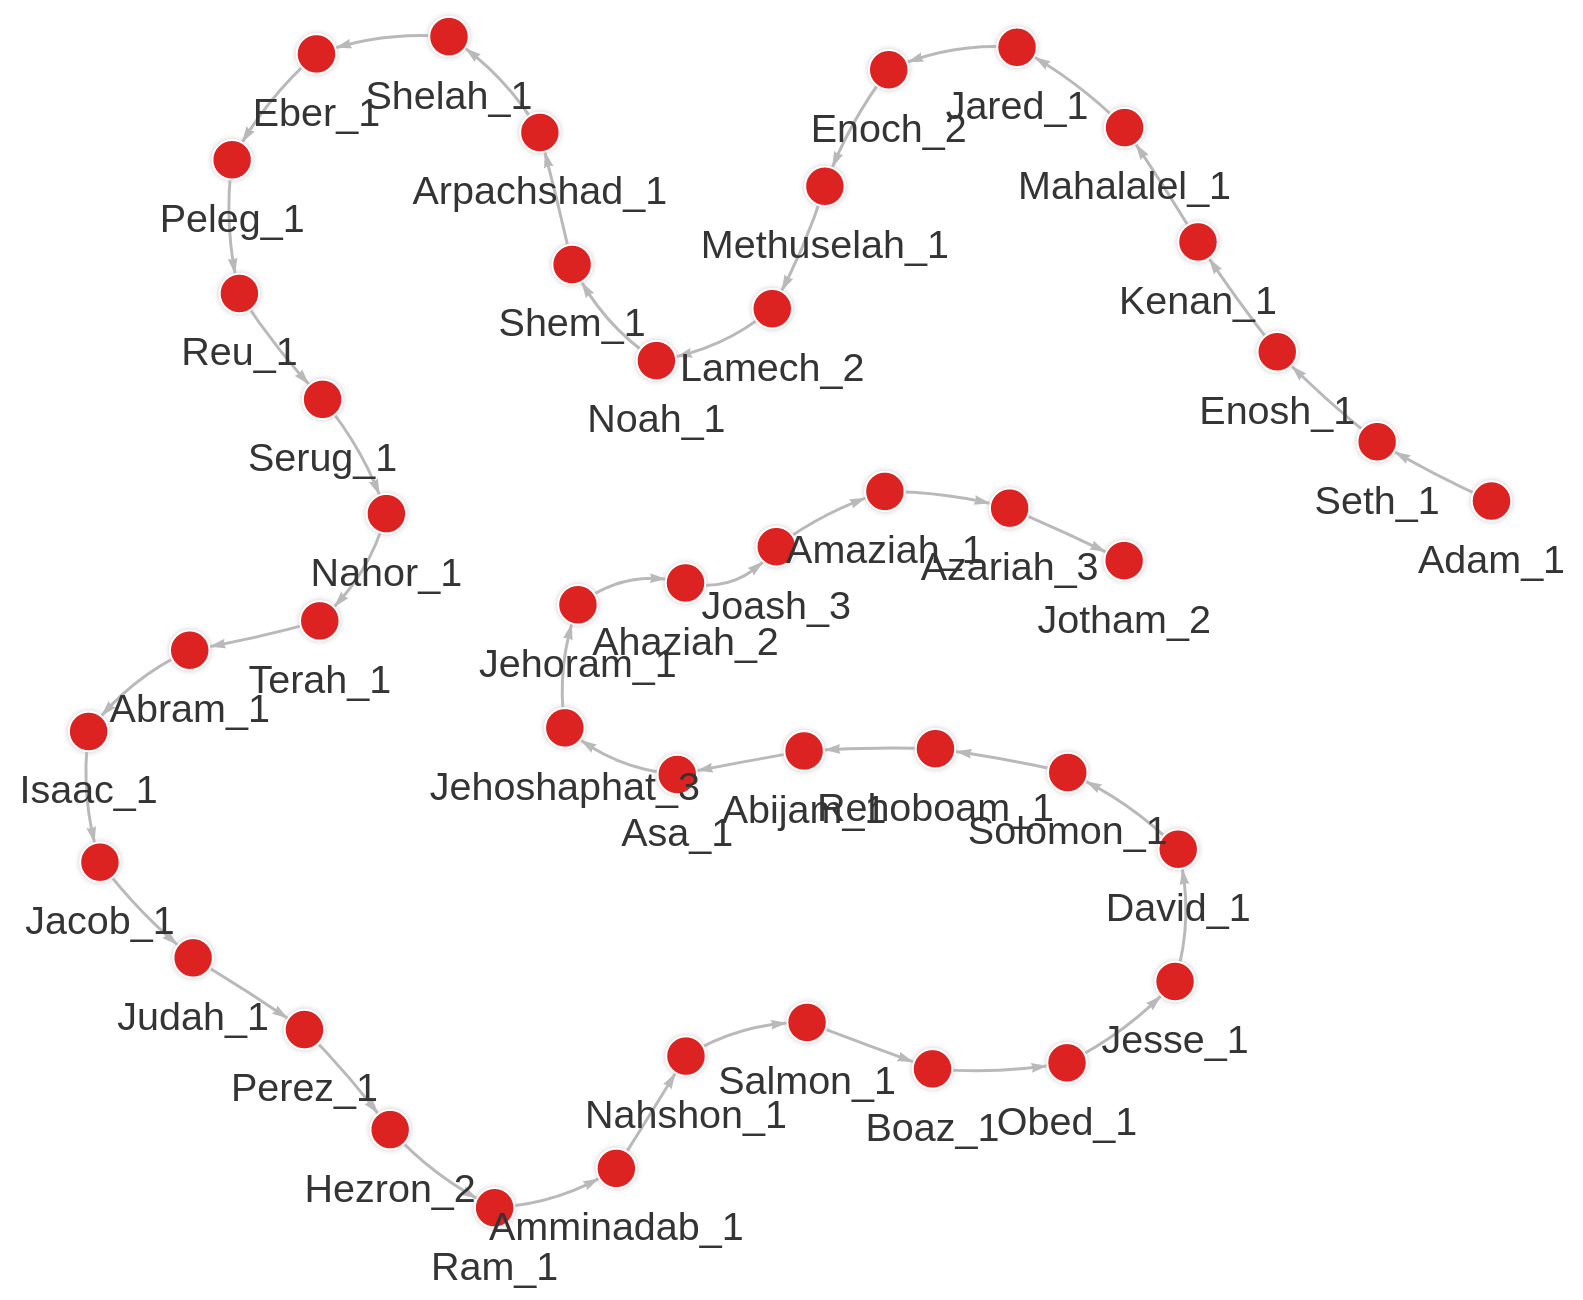
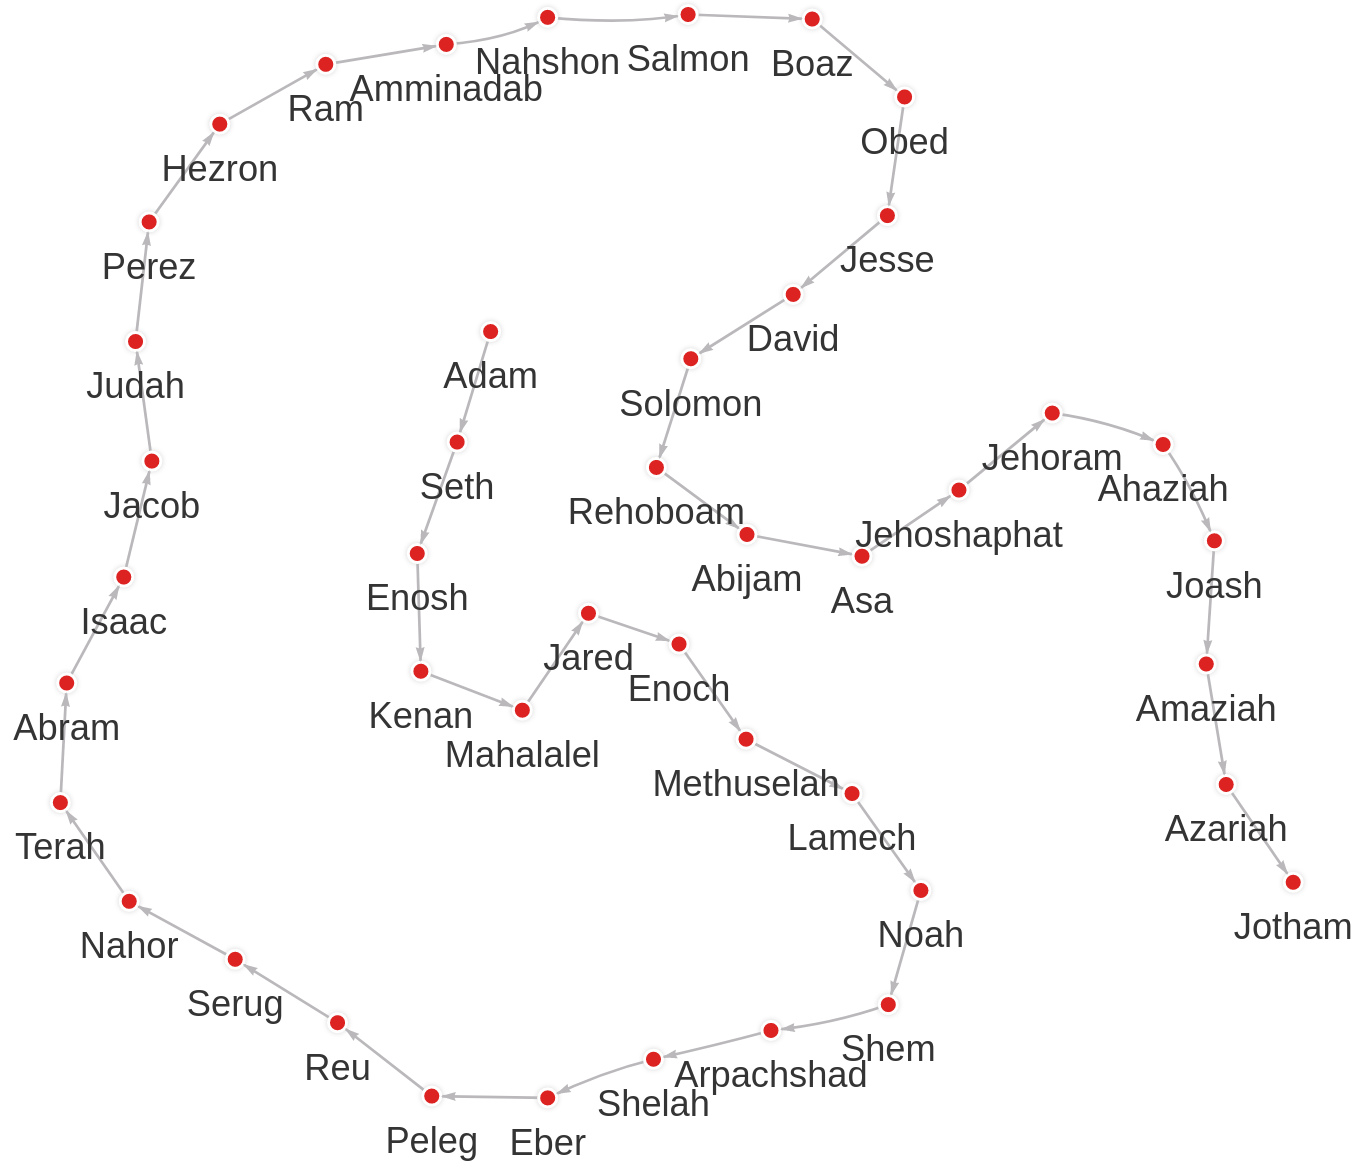
add more information to each question and improve image quality

diff --git a/README.md b/README.md
@@ -1,15 +1,25 @@
-# Exploring hebrew [bible relationships](https://data.world/bradys/bibledata-personrelationship) with [memgraph](https://memgraph.com)
+# Exploring the Hebrew [Bible relationships](https://data.world/bradys/bibledata-personrelationship) with [Memgraph](https://memgraph.com)
 
-Reading the bible I recall struggling to remember relationships between persons and where to find references to them in the bible.
+Reading the Bible I recall struggling to remember relationships between persons and where to find references to them in the Bible.
 That has kept me from being immersed in the story as I would often find myself guessing who is who to whom.
 Recently, I've discovered this gem of a dataset and wanted to explore it.
 Memgraph turned out to be a great fit for analysing the data.
 In the first part of this article we'll answer some commonly asked questions using a graph database.
-In the second part you can find the step by step process of how to explore your  own datasets; from idea to results.
+In the second part you can find the step by step process of how to explore your own datasets; from idea to results.
 
 ## Frequently asked questions
 
+Every question in this section will be followed by:
+  - a short description
+  - an image from [MemgraphLab](https://memgraph.com/download#Lab-download) (Memgraph's default data browser)
+  - a [cypher query](https://neo4j.com/developer/cypher/) (SQL-like declarative query language for graph databases)
+
 ### What is the longest father bloodline path from Adam?
+The image shows the longest father-line path from Adam (created by G-d) all the way to Jotham, the son of Azariah.
+We can see that our dataset is incomplete since the family tree of Uzziah, son of Amaziah, should be longer (all the way to Yeshua).
+The Amaziah -> Uzziah relationship is first noted in the second book of Chronicles 26:1, but the dataset is up to 2CH 20.
+This is one of the charms of dealing with live data.
+![](./img/longest-bloodline.png)
 ```cypher
 MATCH path = ({name: "Adam"})
     -[* {type: "father"} ]->
@@ -18,32 +28,27 @@ RETURN path
 ORDER BY size(path) DESC
 LIMIT 1
 ```
-![](./img/longest-bloodline.png)
 
-We can see that our dataset is incomplete as the bloodline ends with *Jotham*, even though he had a son.
-That is one of the charms of dealing with live data.
+### What is the family tree of Adam excluding Israel (Jacob)?
+The image shows Adams family tree up to Jacob, the son of Isaac, grandson of Abram.
+Do note that apart from the families of Jacob; Moabites, Ammonites (sons of Lot), and other tribes were also present in later parts of the old testament.
+Female nodes in the graph are coloured orange, and male nodes are coloured red.
 
-### What was the family tree of Adam excluding Israel (Jacob)?
+![](./img/adam-to-jacob.png)
 ```cypher
 MATCH path = ({id: "Adam_1"})-[* bfs (
-  e, v | v.id != "Jacob_1" and e.type = "father"
+  e, v | v.id != "Jacob_1" AND e.type = "father"
 )]->()
 RETURN path
 ```
-![](./img/adam-to-jacob.png)
-Jacob was the son of Isaac, grandson of Abram.
-He had twelve sons, all of whom became the heads of their own family groups, later known as the twelve tribes of Israel.
 
 ### Which tribe of Israel had the largest family?
-```cypher
-MATCH ({id: "Jacob_1"})<-[{type: "son"}]-(son)
-MATCH path = (son)-[* bfs (e, v | e.type = "father")]->(a)
-WITH son.name as tribe, count(a) + 1 AS size_by_blood
-OPTIONAL MATCH (person)
-WHERE person.tribe in CASE tribe WHEN "Joseph" THEN ["Manasseh", "Ephraim"] ELSE [tribe] END
-RETURN tribe, size_by_blood, count(person) AS size_by_marriage
-ORDER BY size_by_blood DESC, size_by_marriage DESC
-```
+Jacob had twelve sons, all of whom became the heads of their own family groups, later known as the twelve tribes of Israel.
+The tribe of Joseph split into two half-tribes: the tribe of Manasseh and the tribe of Ephraim.
+In the following table we can see the size of each tribe up to the second book of Chronicles.
+`size_by_blood` is calculated by counting all the nodes we can reach from the sons of Jacob using only the *father* relationships.
+`size_by_marriage` is calculated by counting all the instances in the Bible where a person is explicitly noted to be a part of a certain tribe.
+
 | tribe | size_by_blood | size_by_marriage |
 | ----- | ------------- | ---------------- |
 | Judah    | 163 | 294 |
@@ -62,16 +67,27 @@ ORDER BY size_by_blood DESC, size_by_marriage DESC
 ```cypher
 MATCH ({id: "Jacob_1"})<-[{type: "son"}]-(son)
 MATCH path = (son)-[* bfs (e, v | e.type = "father")]->(a)
-RETURN path
+WITH son.name as tribe, count(a) + 1 AS size_by_blood
+OPTIONAL MATCH (person)
+WHERE person.tribe in CASE tribe WHEN "Joseph" THEN ["Manasseh", "Ephraim"] ELSE [tribe] END
+RETURN tribe, size_by_blood, count(person) AS size_by_marriage
+ORDER BY size_by_blood DESC, size_by_marriage DESC
 ```
-![](./img/tribes-of-israel.png)
+
+The image shows the twelve tribes of Israel up to 2CH 20:1 by father bloodline.
 Can you guess which family tree belongs to whom?
 Help yourself with the table provided above!
+![](./img/tribes-of-israel.png)
+```cypher
+MATCH ({id: "Jacob_1"})<-[{type: "son"}]-(son)
+MATCH path = (son)-[* bfs (e, v | e.type = "father")]->(a)
+RETURN path
+```
 
 # From idea to results
 
 ## Inserting data into a graph database
-Each line in the raw [dataset](https://data.world/bradys/bibledata-personrelationship) by [Brady Stepheson](https://data.world/bradys) contains information about the relationship between two persons and the reference to the bible verse.
+Each line in the raw [dataset](https://data.world/bradys/bibledata-personrelationship) by [Brady Stepheson](https://data.world/bradys) contains information about the relationship between two persons and the reference to the Bible verse.
 
 Cleaned dataset excerpt:
 ```
@@ -125,6 +141,7 @@ CREATE (a) - [:RELATIONSHIP {
 }] -> (b)
 ```
 
+Additionally we can add name, surname, sex, tribe and other metadata to each person using the [persons dataset](https://data.world/bradys/bibledata-person).
 ```cypher
 LOAD CSV FROM "/person.csv" WITH HEADER AS row
 MERGE (node: Person {id: row.person_id})
@@ -171,7 +188,7 @@ SET new_relationship.type="created by";
 ```
 
 ### Using domain knowledge
-If you have read the bible some things might come out to you as odd straight away.
+If you have read the Bible some things might come out to you as odd straight away.
 For example, when I was executing the queries in the first part of the article I noticed that *Benjamin* was the son of *Joseph* and *Rachel*, but I know that can't be right since *Joseph* is the brother of *Benjamin*.
 Also, I have noticed that *Nahshon_1* and *Nahshon_2* must be the same person as there was no clear bloodline from *Adam* to *David*!
 In general for these kinds of observations you will usually need someone who is an expert in the field.
